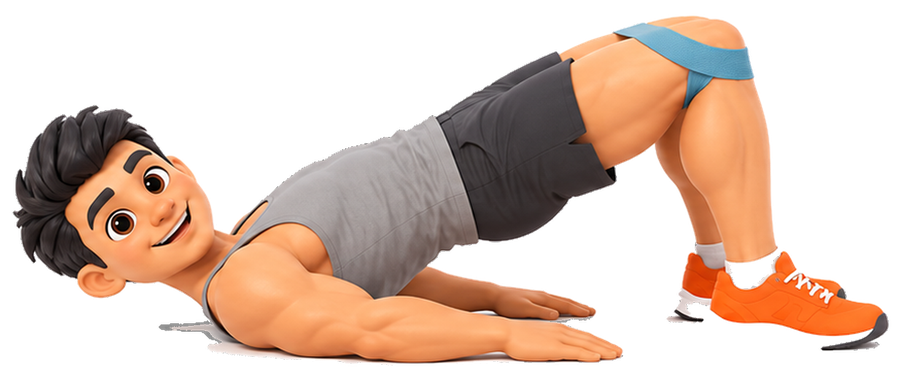
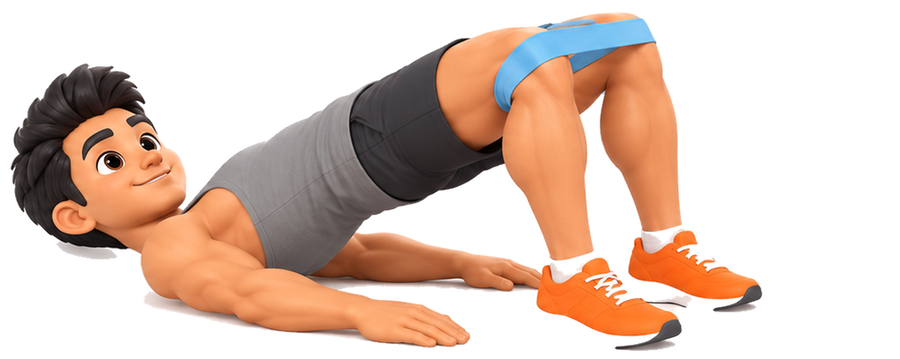
v39: foto aperture e ponte glutei con elastico
Claude-Session: https://claude.ai/code/session_011zxvCQUaj3j4CuGmXRxvwp

diff --git a/index.html b/index.html
@@ -2309,7 +2309,7 @@ function drawFrontToon(j, g, C) {
   return s + behind + headUse("front-" + g, [n[0], n[1] - 2]) + front;
 }
 const charImg = (ex, g) => SITE ? '<img class="char char-stand" src="'.concat(imgDir(), "chars/stand-").concat(g === "f" ? "f" : "m", '.webp" alt="" draggable="false" decoding="async">') : "";
-const PICS = { "stepup": { "m": { "w": 263, "h": 502, "n": 4 }, "f": { "w": 212, "h": 465, "n": 4 } }, "lunge": { "m": { "w": 248, "h": 509, "n": 2 }, "f": { "w": 231, "h": 460, "n": 2 } }, "squat": { "m": { "w": 369, "h": 560, "n": 2 }, "f": { "w": 358, "h": 560, "n": 2 } }, "jacks": { "m": { "w": 377, "h": 560, "n": 2 }, "f": { "w": 339, "h": 560, "n": 2 } }, "pushup": { "m": { "w": 783, "h": 560, "n": 2 }, "f": { "w": 725, "h": 560, "n": 2 } }, "plank": { "m": { "w": 900, "h": 468, "n": 2 }, "f": { "w": 900, "h": 494, "n": 2 } }, "abs": { "m": { "w": 900, "h": 443, "n": 2 }, "f": { "w": 900, "h": 381, "n": 2 } }, "sidelunge": { "m": { "w": 441, "h": 560, "n": 2 }, "f": { "w": 427, "h": 560, "n": 2 } }, "boxsquat": { "m": { "w": 392, "h": 560, "n": 2 }, "f": { "w": 339, "h": 560, "n": 2 } }, "jumpsquat": { "m": { "w": 472, "h": 560, "n": 2 }, "f": { "w": 471, "h": 560, "n": 2 } }, "climber": { "m": { "w": 811, "h": 560, "n": 2 }, "f": { "w": 724, "h": 560, "n": 2 } }, "widepush": { "m": { "w": 802, "h": 560, "n": 2 }, "f": { "w": 752, "h": 560, "n": 2 } }, "scissor": { "m": { "w": 647, "h": 560, "n": 2 }, "f": { "w": 863, "h": 560, "n": 2 } }, "bridge": { "m": { "w": 900, "h": 381, "n": 2 }, "f": { "w": 900, "h": 358, "n": 2 } }, "burpee": { "m": { "w": 719, "h": 560, "n": 2 }, "f": { "w": 480, "h": 560, "n": 2 } }, "wallsit": { "m": { "w": 315, "h": 560, "n": 2 }, "f": { "w": 291, "h": 560, "n": 2 } }, "bandcrunch": { "m": { "w": 900, "h": 494, "n": 2 }, "f": { "w": 900, "h": 470, "n": 2 } }, "bandjacks": { "m": { "w": 348, "h": 560, "n": 2 }, "f": { "w": 321, "h": 560, "n": 2 } }, "bandpush": { "m": { "w": 688, "h": 560, "n": 2 }, "f": { "w": 762, "h": 560, "n": 2 } }, "bandsquat": { "m": { "w": 372, "h": 560, "n": 2 }, "f": { "w": 361, "h": 560, "n": 2 } }, "bandplank": { "m": { "w": 790, "h": 560, "n": 2 } }, "bandbridge": { "m": { "w": 900, "h": 375, "n": 2 } }, "bandburpee": { "m": { "w": 501, "h": 560, "n": 2 } }, "bandscissor": { "m": { "w": 721, "h": 560, "n": 2 } }, "bandwallsit": { "m": { "w": 317, "h": 560, "n": 2 } }, "bandcurl": { "m": { "w": 224, "h": 560, "n": 2 }, "f": { "w": 199, "h": 560, "n": 2 } }, "bandpress": { "m": { "w": 268, "h": 560, "n": 2 }, "f": { "w": 230, "h": 560, "n": 2 } }, "kickback": { "m": { "w": 614, "h": 560, "n": 2 }, "f": { "w": 552, "h": 560, "n": 2 } }, "bandrow": { "m": { "w": 289, "h": 560, "n": 2 }, "f": { "w": 263, "h": 560, "n": 2 } }, "latraise": { "m": { "w": 498, "h": 560, "n": 2 }, "f": { "w": 441, "h": 560, "n": 2 } } };
+const PICS = { "stepup": { "m": { "w": 263, "h": 502, "n": 4 }, "f": { "w": 212, "h": 465, "n": 4 } }, "lunge": { "m": { "w": 248, "h": 509, "n": 2 }, "f": { "w": 231, "h": 460, "n": 2 } }, "squat": { "m": { "w": 369, "h": 560, "n": 2 }, "f": { "w": 358, "h": 560, "n": 2 } }, "jacks": { "m": { "w": 377, "h": 560, "n": 2 }, "f": { "w": 339, "h": 560, "n": 2 } }, "pushup": { "m": { "w": 783, "h": 560, "n": 2 }, "f": { "w": 725, "h": 560, "n": 2 } }, "plank": { "m": { "w": 900, "h": 468, "n": 2 }, "f": { "w": 900, "h": 494, "n": 2 } }, "abs": { "m": { "w": 900, "h": 443, "n": 2 }, "f": { "w": 900, "h": 381, "n": 2 } }, "sidelunge": { "m": { "w": 441, "h": 560, "n": 2 }, "f": { "w": 427, "h": 560, "n": 2 } }, "boxsquat": { "m": { "w": 392, "h": 560, "n": 2 }, "f": { "w": 339, "h": 560, "n": 2 } }, "jumpsquat": { "m": { "w": 472, "h": 560, "n": 2 }, "f": { "w": 471, "h": 560, "n": 2 } }, "climber": { "m": { "w": 811, "h": 560, "n": 2 }, "f": { "w": 724, "h": 560, "n": 2 } }, "widepush": { "m": { "w": 802, "h": 560, "n": 2 }, "f": { "w": 752, "h": 560, "n": 2 } }, "scissor": { "m": { "w": 647, "h": 560, "n": 2 }, "f": { "w": 863, "h": 560, "n": 2 } }, "bridge": { "m": { "w": 900, "h": 381, "n": 2 }, "f": { "w": 900, "h": 358, "n": 2 } }, "burpee": { "m": { "w": 719, "h": 560, "n": 2 }, "f": { "w": 480, "h": 560, "n": 2 } }, "wallsit": { "m": { "w": 315, "h": 560, "n": 2 }, "f": { "w": 291, "h": 560, "n": 2 } }, "bandcrunch": { "m": { "w": 900, "h": 494, "n": 2 }, "f": { "w": 900, "h": 470, "n": 2 } }, "bandjacks": { "m": { "w": 348, "h": 560, "n": 2 }, "f": { "w": 321, "h": 560, "n": 2 } }, "bandpush": { "m": { "w": 688, "h": 560, "n": 2 }, "f": { "w": 762, "h": 560, "n": 2 } }, "bandsquat": { "m": { "w": 372, "h": 560, "n": 2 }, "f": { "w": 361, "h": 560, "n": 2 } }, "bandplank": { "m": { "w": 790, "h": 560, "n": 2 } }, "bandbridge": { "m": { "w": 900, "h": 359, "n": 2 }, "f": { "w": 900, "h": 391, "n": 2 } }, "bandburpee": { "m": { "w": 501, "h": 560, "n": 2 } }, "bandscissor": { "m": { "w": 721, "h": 560, "n": 2 } }, "bandwallsit": { "m": { "w": 317, "h": 560, "n": 2 } }, "bandcurl": { "m": { "w": 224, "h": 560, "n": 2 }, "f": { "w": 199, "h": 560, "n": 2 } }, "bandpress": { "m": { "w": 268, "h": 560, "n": 2 }, "f": { "w": 230, "h": 560, "n": 2 } }, "kickback": { "m": { "w": 614, "h": 560, "n": 2 }, "f": { "w": 552, "h": 560, "n": 2 } }, "bandrow": { "m": { "w": 289, "h": 560, "n": 2 }, "f": { "w": 263, "h": 560, "n": 2 } }, "latraise": { "m": { "w": 498, "h": 560, "n": 2 }, "f": { "w": 441, "h": 560, "n": 2 } }, "pullapart": { "m": { "w": 471, "h": 560, "n": 2 }, "f": { "w": 455, "h": 560, "n": 2 } } };
 PICS.revlunge = PICS.lunge;
 PICS.situp = PICS.crunch = PICS.abs;
 document.addEventListener("error", (e) => {

diff --git a/sw.js b/sw.js
@@ -1,5 +1,5 @@
 // Offline cache: app shell + pose model, so training works without signal once installed.
-const CACHE = "recluta-v38";
+const CACHE = "recluta-v39";
 const CORE = ["./", "index.html", "manifest.webmanifest", "vision_bundle.mjs", "peerjs.min.js", "pose_landmarker_lite.task", "icons/icon-192.png"];
 self.addEventListener("install", e => { e.waitUntil(caches.open(CACHE).then(c => c.addAll(CORE)).then(() => self.skipWaiting())); });
 self.addEventListener("activate", e => { e.waitUntil(caches.keys().then(ks => Promise.all(ks.filter(k => k !== CACHE).map(k => caches.delete(k)))).then(() => self.clients.claim())); });
